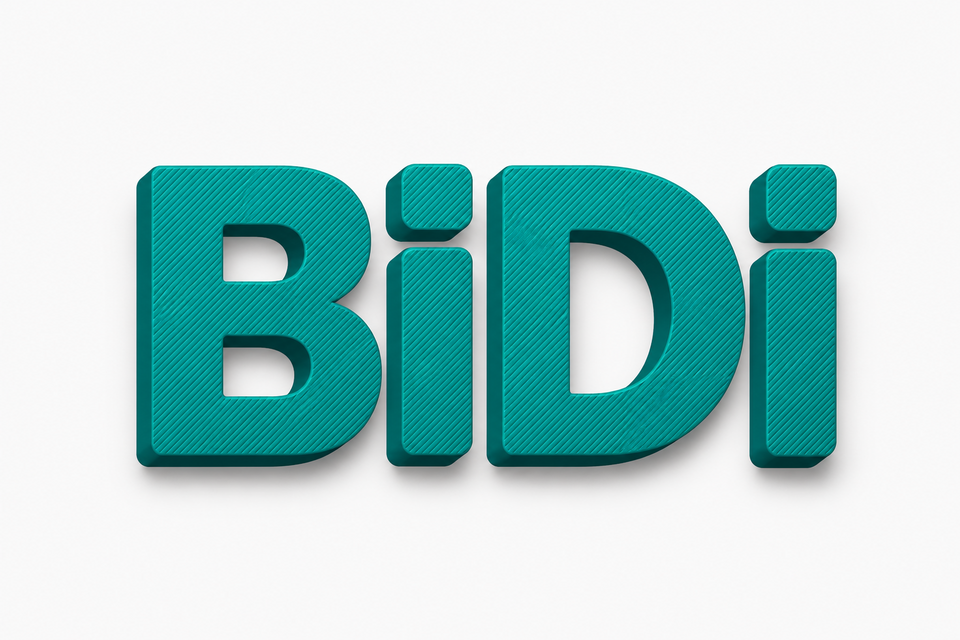
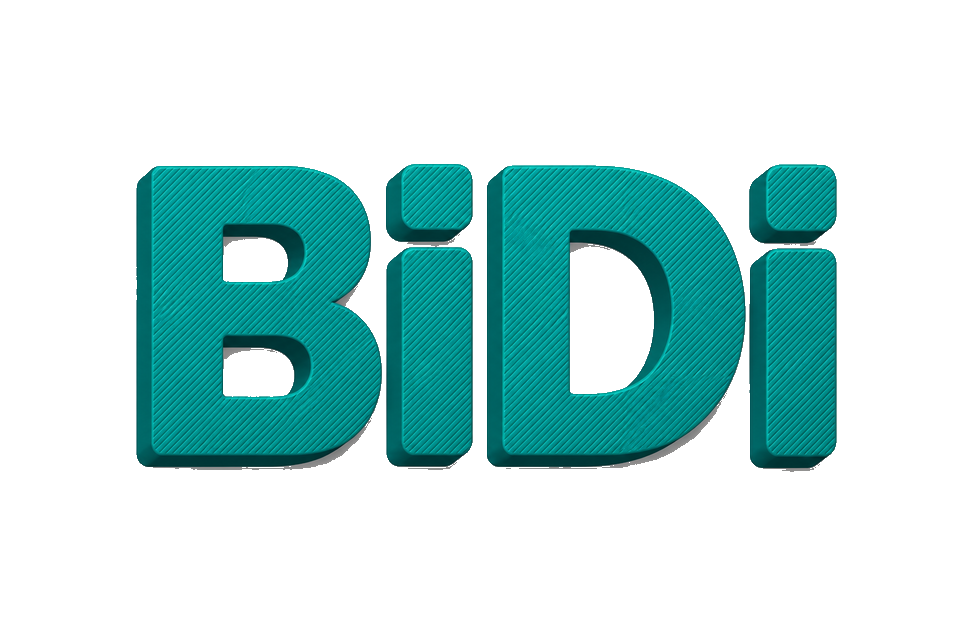
Fix/003 stargazers chart (#3)
* fix: replace starchart.cc with a local stargazer chart.

* chore: ignore Python bytecode from the star-history script.

* fix: make README logos transparent.

diff --git a/scripts/star_history.py b/scripts/star_history.py
@@ -1,0 +1,178 @@
+#!/usr/bin/env python3
+"""Build local stargazer charts from the public repo star count.
+
+GitHub locked GET /repos/{owner}/{repo}/stargazers to collaborators in 2026.
+Services such as starchart.cc and star-history.com hit that list endpoint and
+return rate-limit / restriction errors in READMEs.
+
+This script only reads stargazers_count from GET /repos/{owner}/{repo}, which
+stays public, appends today's count, and writes static SVGs into media/.
+"""
+
+from __future__ import annotations
+
+import argparse
+import json
+import os
+import urllib.request
+from datetime import date, datetime, timezone
+from pathlib import Path
+
+ROOT = Path(__file__).resolve().parents[1]
+DATA_PATH = ROOT / "media" / "stargazers.json"
+REPO = "EmadHelmi/BiDiSense"
+CREATED = date(2026, 8, 17)
+
+
+def fetch_star_count() -> int:
+    request = urllib.request.Request(
+        f"https://api.github.com/repos/{REPO}",
+        headers={
+            "Accept": "application/vnd.github+json",
+            "User-Agent": "BiDiSense-star-history",
+            **(
+                {"Authorization": f"Bearer {token}"}
+                if (token := os.environ.get("GITHUB_TOKEN") or os.environ.get("GH_TOKEN"))
+                else {}
+            ),
+        },
+    )
+    with urllib.request.urlopen(request, timeout=30) as response:
+        payload = json.load(response)
+    return int(payload["stargazers_count"])
+
+
+def load_history() -> dict:
+    if DATA_PATH.exists():
+        return json.loads(DATA_PATH.read_text(encoding="utf-8"))
+    return {
+        "repo": REPO,
+        "points": [{"date": CREATED.isoformat(), "stars": 0}],
+    }
+
+
+def upsert_today(history: dict, stars: int) -> dict:
+    today = datetime.now(timezone.utc).date().isoformat()
+    points = [point for point in history.get("points", []) if point.get("date")]
+    if points and points[-1]["date"] == today:
+        points[-1]["stars"] = stars
+    else:
+        points.append({"date": today, "stars": stars})
+    history["repo"] = REPO
+    history["points"] = points
+    return history
+
+
+def chart_svg(points: list[dict], *, dark: bool) -> str:
+    width, height = 880, 320
+    left, right, top, bottom = 56, 28, 52, 52
+    plot_w = width - left - right
+    plot_h = height - top - bottom
+
+    values = [int(point["stars"]) for point in points] or [0]
+    ymax = max(5, max(values))
+    n = max(1, len(points) - 1)
+
+    def x_at(index: int) -> float:
+        return left + (plot_w * index / n if n else 0)
+
+    def y_at(stars: int) -> float:
+        return top + plot_h * (1 - stars / ymax)
+
+    coords = [
+        (x_at(index), y_at(int(point["stars"])))
+        for index, point in enumerate(points)
+    ]
+    polyline = " ".join(f"{x:.1f},{y:.1f}" for x, y in coords)
+    area = f"{left:.1f},{top + plot_h:.1f} " + polyline + f" {coords[-1][0]:.1f},{top + plot_h:.1f}"
+
+    if dark:
+        bg, grid, axis, line, fill, title, muted = (
+            "#0b0b0b",
+            "#1f2933",
+            "#9aa5b1",
+            "#00e5c3",
+            "#00e5c333",
+            "#f5f7fa",
+            "#7b8794",
+        )
+    else:
+        bg, grid, axis, line, fill, title, muted = (
+            "#f7f7f7",
+            "#e4e7eb",
+            "#52606d",
+            "#0d9488",
+            "#0d948826",
+            "#1f2933",
+            "#7b8794",
+        )
+
+    grid_lines = []
+    ticks = 5
+    for step in range(ticks + 1):
+        y = top + plot_h * step / ticks
+        value = ymax - ymax * step / ticks
+        label = str(int(round(value)))
+        grid_lines.append(
+            f'<line x1="{left}" y1="{y:.1f}" x2="{width - right}" y2="{y:.1f}" '
+            f'stroke="{grid}" stroke-width="1"/>'
+            f'<text x="{left - 10}" y="{y:.1f}" fill="{axis}" font-size="12" '
+            f'text-anchor="end" dominant-baseline="middle" '
+            f'font-family="ui-sans-serif, system-ui, sans-serif">{label}</text>'
+        )
+
+    first = points[0]["date"]
+    last = points[-1]["date"]
+    latest = values[-1]
+    x_labels = (
+        f'<text x="{left}" y="{height - 18}" fill="{muted}" font-size="12" '
+        f'font-family="ui-sans-serif, system-ui, sans-serif">{first}</text>'
+        f'<text x="{width - right}" y="{height - 18}" fill="{muted}" font-size="12" '
+        f'text-anchor="end" font-family="ui-sans-serif, system-ui, sans-serif">{last}</text>'
+    )
+
+    return f"""\
+<svg xmlns="http://www.w3.org/2000/svg" viewBox="0 0 {width} {height}" width="{width}" height="{height}" role="img" aria-label="Stargazers over time">
+  <rect width="{width}" height="{height}" rx="12" fill="{bg}"/>
+  <text x="{left}" y="28" fill="{title}" font-size="18" font-weight="700" font-family="ui-sans-serif, system-ui, sans-serif">Stargazers</text>
+  <text x="{width - right}" y="28" fill="{line}" font-size="18" font-weight="700" text-anchor="end" font-family="ui-sans-serif, system-ui, sans-serif">{latest}</text>
+  {''.join(grid_lines)}
+  <polygon points="{area}" fill="{fill}"/>
+  <polyline points="{polyline}" fill="none" stroke="{line}" stroke-width="3" stroke-linecap="round" stroke-linejoin="round"/>
+  <circle cx="{coords[-1][0]:.1f}" cy="{coords[-1][1]:.1f}" r="4.5" fill="{line}"/>
+  {x_labels}
+</svg>
+"""
+
+
+def write_outputs(history: dict) -> None:
+    DATA_PATH.parent.mkdir(parents=True, exist_ok=True)
+    DATA_PATH.write_text(json.dumps(history, indent=2) + "\n", encoding="utf-8")
+    points = history["points"]
+    (ROOT / "media" / "stargazers-light.svg").write_text(
+        chart_svg(points, dark=False), encoding="utf-8"
+    )
+    (ROOT / "media" / "stargazers-dark.svg").write_text(
+        chart_svg(points, dark=True), encoding="utf-8"
+    )
+
+
+def main() -> None:
+    parser = argparse.ArgumentParser(description=__doc__)
+    parser.add_argument(
+        "--offline",
+        action="store_true",
+        help="Regenerate SVGs from media/stargazers.json without calling GitHub.",
+    )
+    args = parser.parse_args()
+
+    history = load_history()
+    if not args.offline:
+        history = upsert_today(history, fetch_star_count())
+    elif not history.get("points"):
+        history = upsert_today(history, 0)
+    write_outputs(history)
+
+
+if __name__ == "__main__":
+    main()

diff --git a/README.md b/README.md
@@ -71,7 +71,8 @@ Selector names track Cursor's DOM (`markdown-root`, `aislash-editor-input`, `tip
 
 ```
 cursor.js                 Cursor DevTools snippet
-media/                    README logos (dark / light)
+media/                    README logos and stargazer charts
+scripts/star_history.py   Rebuilds the local stargazer SVGs
 docs/github-rulesets.md   Recommended GitHub branch rules
 .cursor/rules/            Agent workflow for this repo
 .github/                  CI, PR template, issue templates, CODEOWNERS
@@ -105,4 +106,11 @@ See [SECURITY.md](SECURITY.md) for how to report a vulnerability privately.
 
 ## Stargazers over Time
 
-[![Stargazers over time](https://starchart.cc/EmadHelmi/BiDiSense.svg?variant=adaptive)](https://starchart.cc/EmadHelmi/BiDiSense)
+<p align="center">
+  <a href="https://github.com/EmadHelmi/BiDiSense/stargazers">
+    <picture>
+      <source media="(prefers-color-scheme: dark)" srcset="./media/stargazers-dark.svg">
+      <img alt="Stargazers over time" src="./media/stargazers-light.svg">
+    </picture>
+  </a>
+</p>

diff --git a/CONTRIBUTING.md b/CONTRIBUTING.md
@@ -60,6 +60,18 @@ Do not rewrite published history. Prefer squash or rebase when merging so `maste
 5. Request a review. Code owners are listed in `.github/CODEOWNERS`.
 6. Merge with **squash** or **rebase** (merge commits are not allowed while linear history is required).
 
+## Stargazer chart
+
+Do not embed `starchart.cc` or `star-history.com`. GitHub no longer allows the public stargazers *list* API, so those services rate-limit or return an error in the README.
+
+Refresh the in-repo charts from the public star **count**:
+
+```bash
+python3 scripts/star_history.py
+```
+
+Commit the updated `media/stargazers.json` and `media/stargazers-*.svg` files in the same PR.
+
 ## Testing a snippet
 
 1. Open Cursor → **Help → Toggle Developer Tools**.
